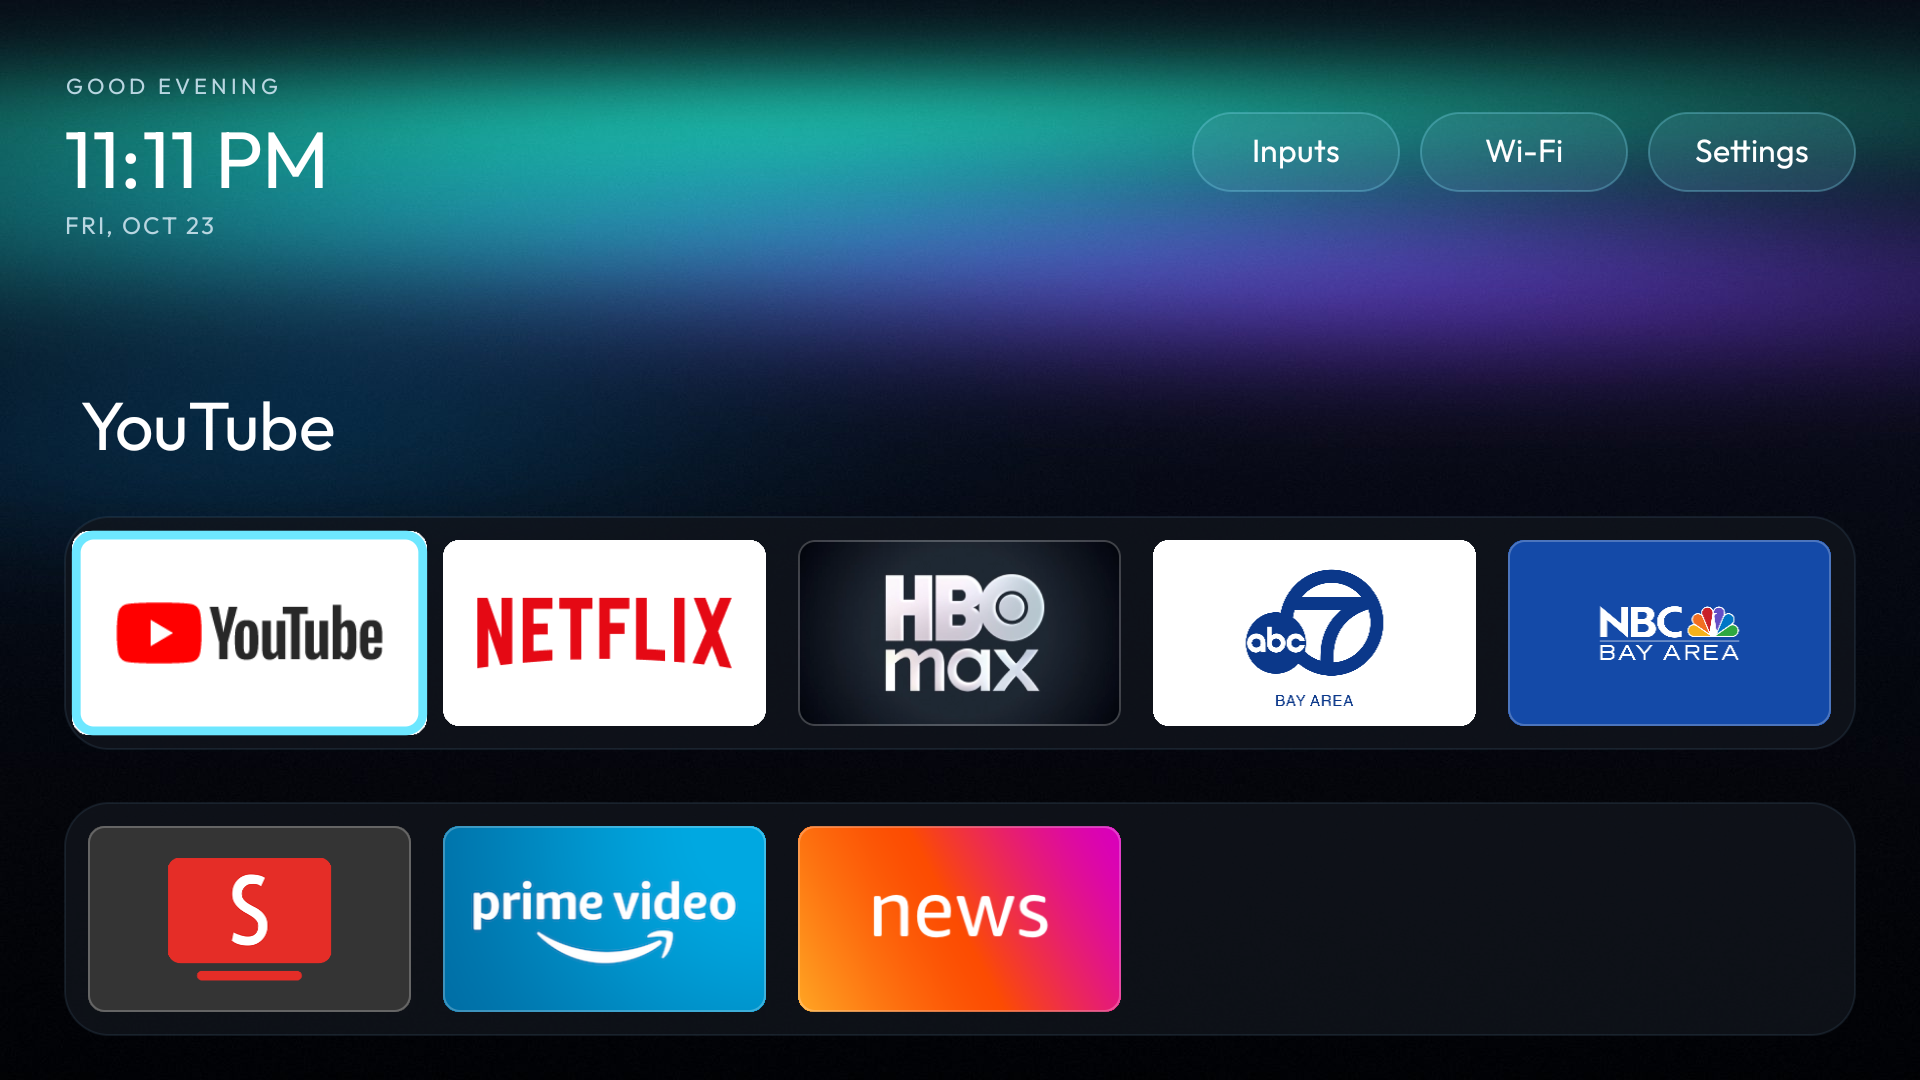
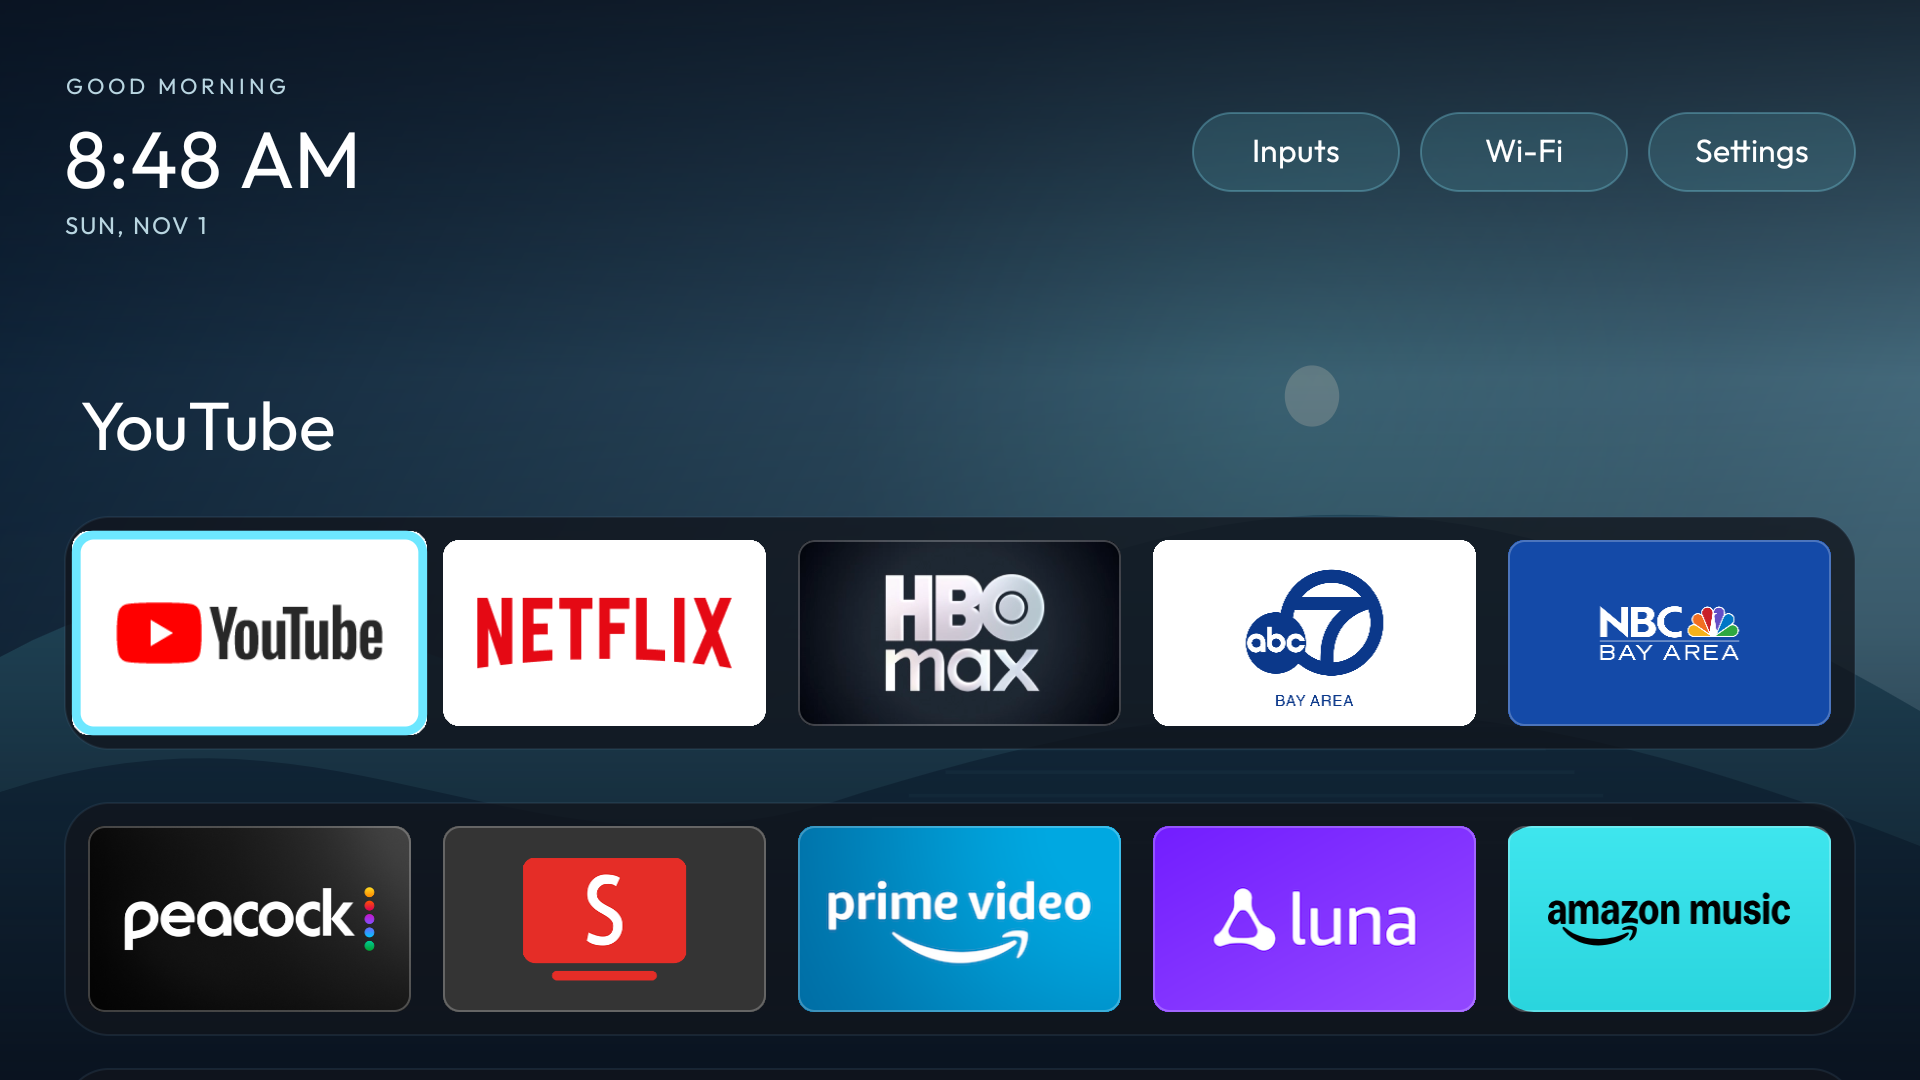
Add daily nature and abstract wallpapers with readable UI shading

diff --git a/src/com/homestead/launcher/ScenicWallpaper.java b/src/com/homestead/launcher/ScenicWallpaper.java
@@ -1,0 +1,86 @@
+package com.cleantv.outfit;
+
+import android.graphics.*;
+import android.graphics.drawable.Drawable;
+
+/** Original vector artwork: static, resolution independent, and entirely offline. */
+final class ScenicWallpaper extends Drawable {
+    private final int scene;
+    private final Paint paint = new Paint(Paint.ANTI_ALIAS_FLAG);
+    private final Path path = new Path();
+    private static final int[][] PALETTES = {
+        {0xFF101E30,0xFF526B80,0xFF293F52,0xFF172D3F},
+        {0xFF0A232B,0xFF54786E,0xFF274C4C,0xFF143337},
+        {0xFF241C31,0xFF916E70,0xFF69505B,0xFF3E334B},
+        {0xFF0B2138,0xFF527F92,0xFF28576C,0xFF16394F},
+        {0xFF11162E,0xFF303B70,0xFF455B92,0xFF202946},
+        {0xFF0A252D,0xFF246263,0xFF4C8880,0xFF173E4A},
+        {0xFF21162F,0xFF614868,0xFF97758D,0xFF342741},
+        {0xFF211D29,0xFF68524D,0xFFAB8270,0xFF3E3443}
+    };
+    ScenicWallpaper(int scene) { this.scene = Math.max(0, Math.min(7, scene)); }
+    private void color(int value) { paint.setShader(null); paint.setColor(value); }
+    private void glow(Canvas c, float x, float y, float r, int color) {
+        paint.setColor(Color.WHITE);
+        paint.setShader(new RadialGradient(x,y,r,new int[]{color,color & 0x00FFFFFF},
+                null,Shader.TileMode.CLAMP));
+        c.drawCircle(x,y,r,paint); paint.setShader(null);
+    }
+    private void ridge(Canvas c, int color, float y, float height, int layer) {
+        color(color); path.reset(); path.moveTo(0,600); path.lineTo(0,y);
+        if (scene == 0) {
+            path.lineTo(130,y-height*.4f); path.lineTo(280,y+30);
+            path.lineTo(470,y-height); path.lineTo(560,y-height*.45f);
+            path.lineTo(640,y-height*.7f); path.lineTo(810,y+25);
+            path.lineTo(950,y-height*.6f); path.lineTo(1200,y);
+        } else {
+            path.cubicTo(220,y-height,330,y+height,540,y);
+            path.cubicTo(780,y-height,930,y-height,1200,y+30);
+        }
+        path.lineTo(1200,600); path.close(); c.drawPath(path,paint);
+        if (scene == 1) {
+            for (int i=0;i<22;i++) {
+                float x=i*59+layer*17, top=y-18-(i*37%65);
+                path.reset(); path.moveTo(x,top); path.lineTo(x-19,y+45);
+                path.lineTo(x+19,y+45); path.close(); c.drawPath(path,paint);
+            }
+        }
+    }
+    @Override public void draw(Canvas canvas) {
+        Rect b=getBounds(); if (b.isEmpty()) return;
+        int save=canvas.save(); canvas.translate(b.left,b.top);
+        canvas.scale(b.width()/1200f,b.height()/600f);
+        int[] p=PALETTES[scene];
+        paint.setColor(Color.WHITE);
+        paint.setShader(new LinearGradient(0,0,1000,600,p[0],p[1],Shader.TileMode.CLAMP));
+        canvas.drawRect(0,0,1200,600,paint);
+        if (scene<4) {
+            glow(canvas,800,230,270,0x405FABB4);
+            color(0x55D6D5C8); canvas.drawCircle(820,220,scene==2?28:17,paint);
+            ridge(canvas,p[2],365,110,0); ridge(canvas,p[3],440,65,1);
+            if (scene==3) {
+                color(0x224D99A8); paint.setStrokeWidth(2);
+                for(int i=0;i<7;i++) canvas.drawLine(660-i*23,390+i*13,930+i*18,390+i*13,paint);
+            }
+        } else {
+            glow(canvas,800,285,370,(p[2]&0xFFFFFF)|0x99000000);
+            glow(canvas,340,430,320,(p[1]&0xFFFFFF)|0xAA000000);
+            for(int i=0;i<4;i++) {
+                path.reset(); path.moveTo(1200,110+i*50);
+                path.cubicTo(760,15+i*65,910,450+i*26,180,620);
+                path.lineTo(1200,620); path.close();
+                color((p[3]&0xFFFFFF)|((45+i*15)<<24)); canvas.drawPath(path,paint);
+            }
+        }
+        // Keep the clock/toolbar and app dock quiet, with the artwork between them.
+        paint.setColor(Color.WHITE);
+        paint.setShader(new LinearGradient(0,0,0,600,
+                new int[]{0xC209101C,0x3009101C,0x5509101C,0xED09101C},
+                new float[]{0,.35f,.58f,1},Shader.TileMode.CLAMP));
+        canvas.drawRect(0,0,1200,600,paint); paint.setShader(null);
+        canvas.restoreToCount(save);
+    }
+    @Override public void setAlpha(int alpha) { }
+    @Override public void setColorFilter(ColorFilter filter) { paint.setColorFilter(filter); }
+    @Override public int getOpacity() { return PixelFormat.OPAQUE; }
+}

diff --git a/src/com/homestead/launcher/Backgrounds.java b/src/com/homestead/launcher/Backgrounds.java
@@ -65,7 +65,42 @@ final class Backgrounds {
     };
 
     /** The setting value for the photo: the slot after the last preset. */
-    static final int PHOTO = PRESETS.length;
+    static final int PHOTO = 5; // Persisted ID: never move when adding backgrounds.
+    static final int ART_FIRST = 6;
+    static final int DAILY_NATURE = 14, DAILY_ABSTRACT = 15, DAILY_MIX = 16;
+    static final String[] ART_NAMES = { "Alpine mist", "Forest dusk", "Desert moon", "Ocean quiet",
+            "Indigo silk", "Jade flow", "Plum haze", "Amber orbit" };
+    static final String[] COLLECTIONS = { "Nature + abstract", "Nature", "Abstract" };
+
+    static int dailyArt(int mode, java.util.Calendar date) {
+        // Use the local calendar date, not elapsed 24-hour intervals (DST-safe).
+        java.util.GregorianCalendar utc = new java.util.GregorianCalendar(java.util.TimeZone.getTimeZone("UTC"));
+        utc.clear();
+        utc.set(date.get(java.util.Calendar.YEAR), date.get(java.util.Calendar.MONTH),
+                date.get(java.util.Calendar.DAY_OF_MONTH));
+        long day = utc.getTimeInMillis() / 86400000L;
+        int count = mode == DAILY_MIX ? 8 : 4;
+        int n = (int) ((day % count + count) % count);
+        // Mixed alternates between nature and abstract each day.
+        return mode == DAILY_MIX ? n / 2 + (n % 2) * 4
+                : n + (mode == DAILY_ABSTRACT ? 4 : 0);
+    }
+
+    static int artIndex(Context c) {
+        int id = Prefs.background(c);
+        if (id >= DAILY_NATURE && id <= DAILY_MIX)
+            return dailyArt(id, java.util.Calendar.getInstance());
+        return id >= ART_FIRST && id < DAILY_NATURE ? id - ART_FIRST : -1;
+    }
+
+    static boolean daily(Context c) { int id = Prefs.background(c); return id >= 14 && id <= 16; }
+    static void setDaily(Context c, boolean enabled) {
+        Prefs.setBackground(c, enabled ? collectionMode(c) : ART_FIRST + Math.max(0, artIndex(c)));
+    }
+    static int collectionMode(Context c) {
+        int n = Prefs.wallpaperCollection(c);
+        return n == 1 ? DAILY_NATURE : n == 2 ? DAILY_ABSTRACT : DAILY_MIX;
+    }
     /** The photo's text and ring colours, and its look until the photo has loaded. */
     static final Preset PHOTO_LOOK =
             new Preset("Photo", 0xFF000000, 0xFF000000, 0xFFFFFFFF, 0xFFE6E6E6, EDGE);
@@ -87,6 +122,9 @@ final class Backgrounds {
     private Backgrounds() { }
 
     static Preset current(Context c) {
+        int art = artIndex(c);
+        if (art >= 0) return new Preset(ART_NAMES[art], 0xFF09131F, 0xFF172535,
+                0xFFFFFFFF, 0xFF6DE7FF, EDGE);
         int i = Prefs.background(c);
         if (i == PHOTO) return PHOTO_LOOK;
         if (i < 0 || i > PHOTO) i = 0;
@@ -98,11 +136,12 @@ final class Backgrounds {
     /** The next choice in the Settings cycle: the presets, then the photo. */
     static int next(Context c) {
         int i = Prefs.background(c);
-        return (i >= PHOTO || i < 0) ? 0 : i + 1;
+        return (i >= DAILY_NATURE - 1 || i < 0) ? 0 : i + 1;
     }
 
     /** The value shown on the Settings row. */
     static String label(Context c) {
+        if (daily(c)) return "Daily · " + current(c).name;
         if (!photoChosen(c)) return current(c).name;
         return photoFile(c) != null ? "Photo" : "Photo (no file yet)";
     }

diff --git a/src/com/homestead/launcher/SettingsPanel.java b/src/com/homestead/launcher/SettingsPanel.java
@@ -250,10 +250,31 @@ public final class SettingsPanel {
         final Panel p = new Panel(c, "Background", null, Panel.SHEET);
 
         final Panel.Row bg = p.addRow("Background", Backgrounds.label(c), null);
+        final Panel.Row daily = p.addRow("Change daily", Backgrounds.daily(c) ? "On" : "Off", null);
+        final Panel.Row collection = p.addRow("Daily collection",
+                Backgrounds.COLLECTIONS[Prefs.wallpaperCollection(c)], null);
+        daily.cell.setOnClickListener(new View.OnClickListener() {
+            public void onClick(View v) {
+                Backgrounds.setDaily(c, !Backgrounds.daily(c));
+                daily.setValue(Backgrounds.daily(c) ? "On" : "Off");
+                bg.setValue(Backgrounds.label(c)); host.rebuildGrid(); changed.run();
+            }
+        });
+        collection.cell.setOnClickListener(new View.OnClickListener() {
+            public void onClick(View v) {
+                Prefs.setWallpaperCollection(c, (Prefs.wallpaperCollection(c) + 1) % 3);
+                collection.setValue(Backgrounds.COLLECTIONS[Prefs.wallpaperCollection(c)]);
+                if (Backgrounds.daily(c)) Prefs.setBackground(c, Backgrounds.collectionMode(c));
+                bg.setValue(Backgrounds.label(c)); host.rebuildGrid(); changed.run();
+            }
+        });
+        daily.setHelp("A new offline wallpaper each local calendar day. Updates while Home is open, "
+                + "or the next time you return. Choosing a fixed background turns daily changes off.");
         final Panel.Row dim = p.addRow("Photo dimming", Backgrounds.dimLabel(c), null);
         bg.cell.setOnClickListener(new View.OnClickListener() {
             public void onClick(View v) {
                 Prefs.setBackground(c, Backgrounds.next(c));
+                daily.setValue("Off");
                 bg.setValue(Backgrounds.label(c));
                 host.rebuildGrid();
                 changed.run();

diff --git a/src/com/homestead/launcher/Prefs.java b/src/com/homestead/launcher/Prefs.java
@@ -129,6 +129,16 @@ public final class Prefs {
     public static boolean showNonTv(Context c) { return sp(c).getBoolean(K_SEC_NONTV, false); }
     public static void setShowNonTv(Context c, boolean v) { sp(c).edit().putBoolean(K_SEC_NONTV, v).apply(); }
 
+    public static int wallpaperCollection(Context c) { return sp(c).getInt("wallpaper_collection", 0); }
+    public static void setWallpaperCollection(Context c, int v) { sp(c).edit().putInt("wallpaper_collection", v).apply(); }
+    public static void initializeDailyWallpaper(Context c) {
+        if (sp(c).getBoolean("daily_wallpaper_v1", false)) return;
+        android.content.SharedPreferences.Editor e = sp(c).edit().putBoolean("daily_wallpaper_v1", true);
+        // Upgrade the default Aurora; preserve explicitly chosen photos and other looks.
+        if (background(c) == 1) e.putInt(K_BACKGROUND, Backgrounds.DAILY_MIX);
+        e.apply();
+    }
+
     /** Index into Backgrounds.PRESETS. */
     public static int background(Context c) { return sp(c).getInt(K_BACKGROUND, 1); }
     public static void setBackground(Context c, int v) { sp(c).edit().putInt(K_BACKGROUND, v).apply(); }

diff --git a/src/com/homestead/launcher/MainActivity.java b/src/com/homestead/launcher/MainActivity.java
@@ -52,6 +52,7 @@ public class MainActivity extends Activity implements HomeGrid.Listener {
     protected void onCreate(Bundle b) {
         super.onCreate(b);
         Prefs.applyOutfitUtilityVisibility(this);
+        Prefs.initializeDailyWallpaper(this);
         home = new HomeGrid(this, this);
         setContentView(home.root);
         home.takeStartFocus();
@@ -150,7 +151,11 @@ public class MainActivity extends Activity implements HomeGrid.Listener {
         HomeRedirectService.hideOverlay(1000L);
 
         if (!receiversOn) {
-            registerReceiver(tick, new IntentFilter(Intent.ACTION_TIME_TICK));
+            IntentFilter timeChanges = new IntentFilter(Intent.ACTION_TIME_TICK);
+            timeChanges.addAction(Intent.ACTION_DATE_CHANGED);
+            timeChanges.addAction(Intent.ACTION_TIME_CHANGED);
+            timeChanges.addAction(Intent.ACTION_TIMEZONE_CHANGED);
+            registerReceiver(tick, timeChanges);
             receiversOn = true;
         }
         if (home != null) home.updateClock();

diff --git a/src/com/homestead/launcher/HomeGrid.java b/src/com/homestead/launcher/HomeGrid.java
@@ -226,6 +226,7 @@ public class HomeGrid implements SettingsPanel.Host {
         painted = state;
         look = p;
         root.setBackground(photo != null ? Backgrounds.photoDrawable(ctx, photo)
+                : Backgrounds.artIndex(ctx) >= 0 ? new ScenicWallpaper(Backgrounds.artIndex(ctx))
                 : "Aurora".equals(p.name) ? ctx.getResources().getDrawable(R.drawable.aurora_wallpaper) : Backgrounds.drawable(p));
         paintText(clock);
         for (int i = 0; i < column.getChildCount(); i++) {
@@ -248,6 +249,7 @@ public class HomeGrid implements SettingsPanel.Host {
     // ---------------------------------------------------------------- public API
 
     public void updateClock() {
+        applyBackground();
         int mode = Prefs.clockMode(ctx);
         if (mode == Prefs.CLOCK_OFF) { clock.setText(""); return; }
         String fmt = (mode == Prefs.CLOCK_12H) ? "h:mm a" : "HH:mm";

diff --git a/CUSTOM-README.md b/CUSTOM-README.md
@@ -19,3 +19,8 @@ READ_LOGS is used for the Home redirect, as approved in this session. WRITE_SECU
 Favorites live in HomeGrid.java in the `order` array. Change that list and rebuild to alter their fixed order. Wallpaper is changeable in Settings without rebuilding. This is a maintained local fork; official Homestead releases will not update it automatically.
 
 The bundled Outfit file is a static regular-weight instance for reliable Android 9 rendering, derived from the Google Fonts variable font.
+
+## Daily backgrounds
+Settings → Background now offers **Change daily** and **Daily collection** (Nature + abstract, Nature, or Abstract). Eight original offline vector wallpapers include Alpine mist, Forest dusk, Desert moon, Ocean quiet, Indigo silk, Jade flow, Plum haze, and Amber orbit. Dark gradients protect the clock, top-right controls, app labels, and dock. No downloads, permissions, timers waking the TV, or photo storage are required.
+
+Rotation follows the TV's local calendar date, stays stable for that day, and updates on the next clock tick or return Home. Mixed rotation alternates nature and abstract. Turn Change daily off to keep today's artwork; selecting a fixed Background also stops rotation. Existing Aurora installations switch to daily mixed once on upgrade; custom photos and other selected looks are preserved. Photo remains saved setting ID 5 for compatibility.

diff --git a/README.md b/README.md
@@ -1,5 +1,7 @@
 # Homestead Outfit
 
+Daily offline nature and abstract wallpapers are available under **Settings → Background → Change daily**. Choose a mixed, nature-only, or abstract-only collection.
+
 Custom Outfit edition inspired by CleanYourTV Aurora, with a colorful wallpaper, five favorite apps, focused app names, and compact Inputs / Wi-Fi / Settings buttons. Package: `com.cleantv.outfit`, installed alongside the official app.
 
 ![Homestead Outfit on an Insignia Fire TV, showing the Aurora background, focused app name, five favorite apps, and top-right controls.](screenshots/outfit-home.png)
